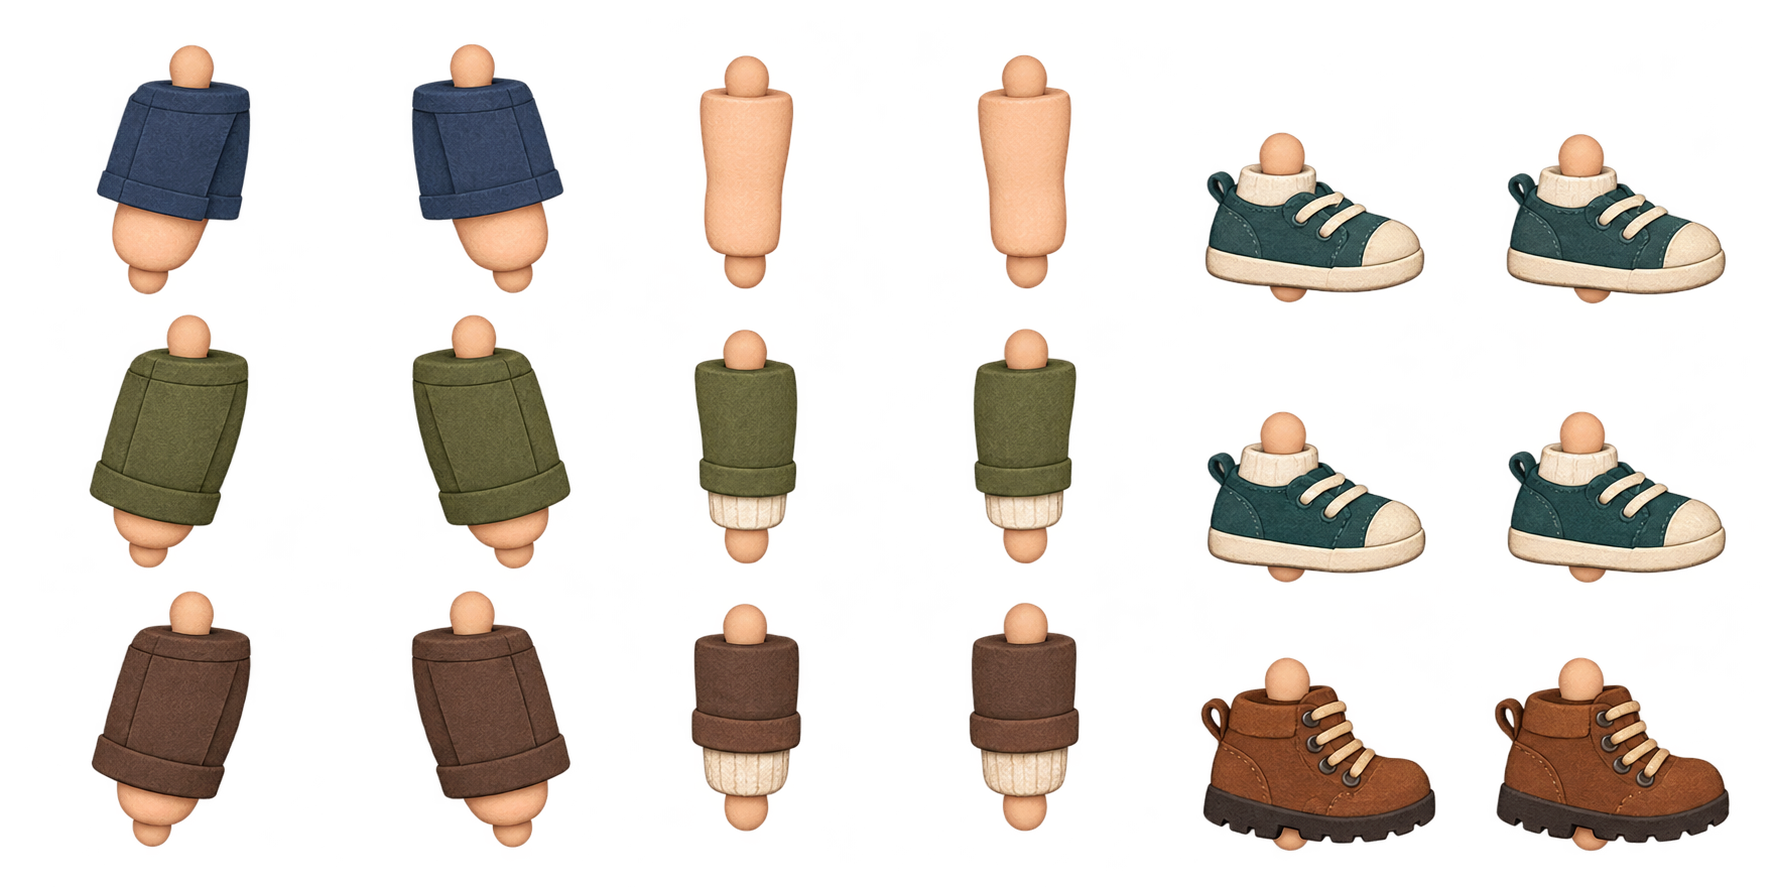
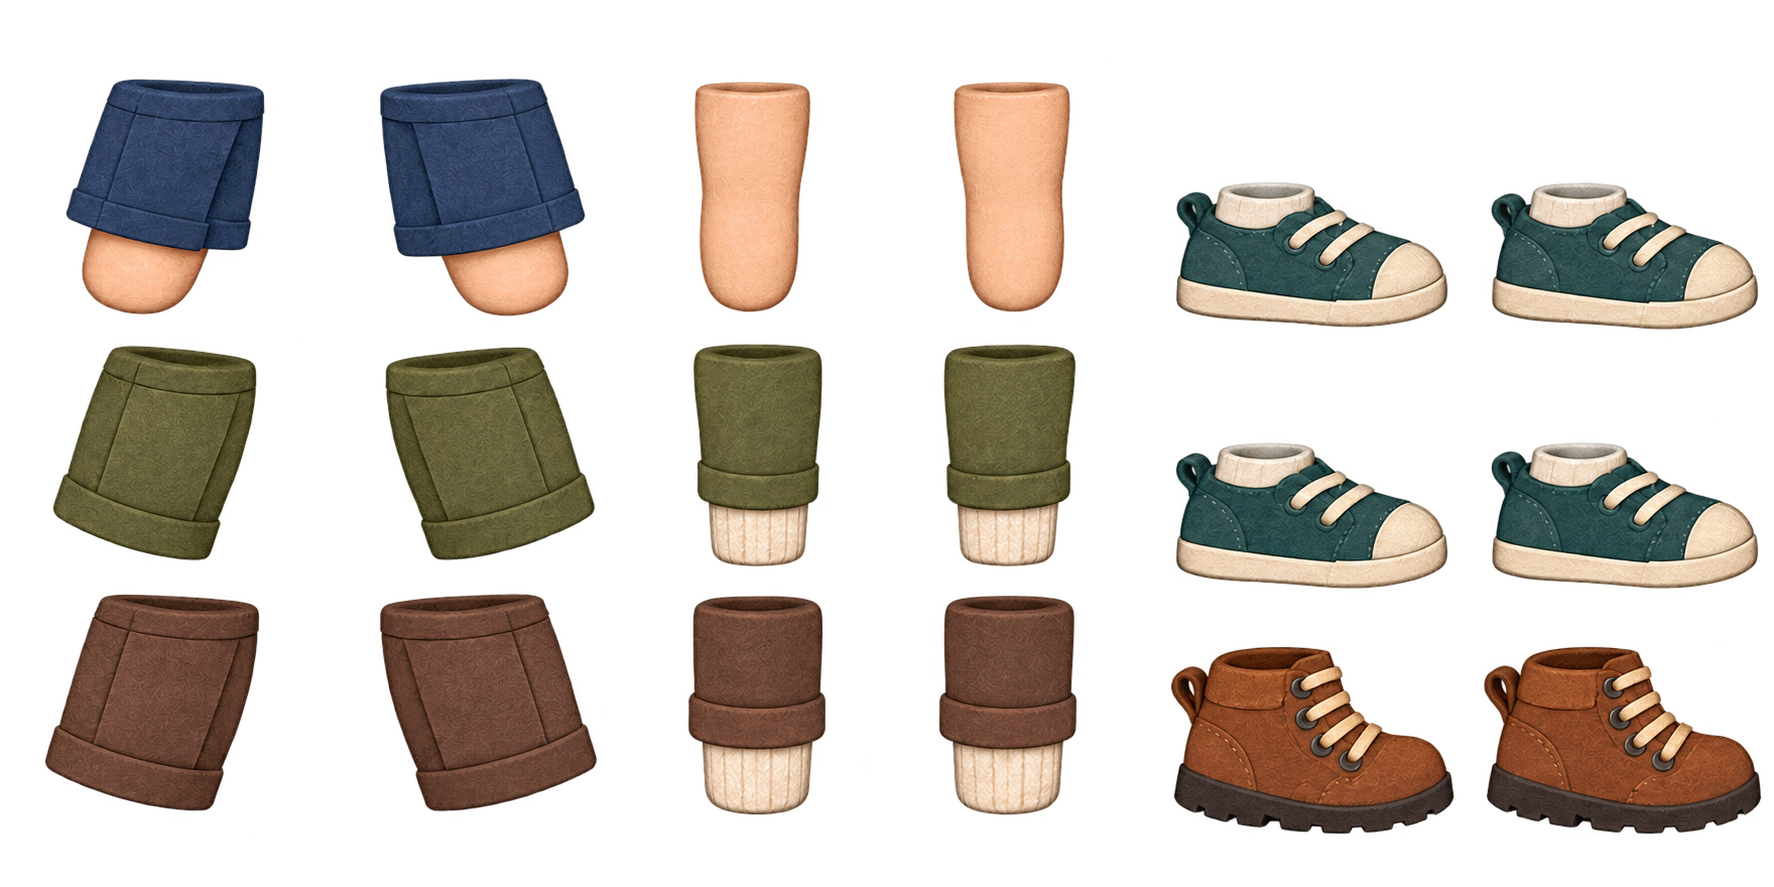
Clean up articulated paper limbs and bend knees toward the toes

diff --git a/tools/build_limb_regions.py b/tools/build_limb_regions.py
@@ -18,7 +18,7 @@ for row in range(3):
   components,count=label(alpha[y:endy,x:endx]>180)
   counts=np.bincount(components.ravel());counts[0]=0
   part=find_objects(components)[counts.argmax()-1]
-  # Two source pixels of feathering around each silhouette; ankle pegs stay hidden by overlaps.
+  # Two source pixels of feathering around each silhouette; the new atlas has no connector pegs.
   left=max(x,x+part[1].start-2);top=max(y,y+part[0].start-2)
   right=min(endx,x+part[1].stop+2);bottom=min(endy,y+part[0].stop+2)
   rects.append((left,top,right-left,bottom-top))

diff --git a/docs/BETA_POLISH.md b/docs/BETA_POLISH.md
@@ -42,3 +42,5 @@ The canopy now has 2,160 distinct leaves (25% fewer), at radius 7.8 (30% larger)
 Leaf identities retain their depth ordering across detachment and flight in one instanced pass. Foreground occluders shed first, before seasonal colour preference. Two independent fine support surfaces stack landed leaves into growing piles; alternate identities draw before/after the player. The ending simulates only airborne leaves at 30 Hz and interpolates movement for rendering. Bulk instance buffers replace thousands of server calls and individual ground/air draw commands. Warning snow emits above the top edge, including when snowfall density increases.
 
 A 600-frame headless CPU study measured about 0.96 seconds combined simulation/upload work versus 1.43 seconds previously; this is a renderer-update benchmark, not a mobile frame-rate claim. Physical device profiling remains necessary.
+
+The walking atlas has been replaced with textured paper trouser, calf and shoe pieces without exposed connector tabs. The two-bone solver now bends toward the toes (including mirrored travel), using the same bend at rest so starting a stride does not flip the joint. Bone length, planted-foot and directional-knee checks cover complete strides.
